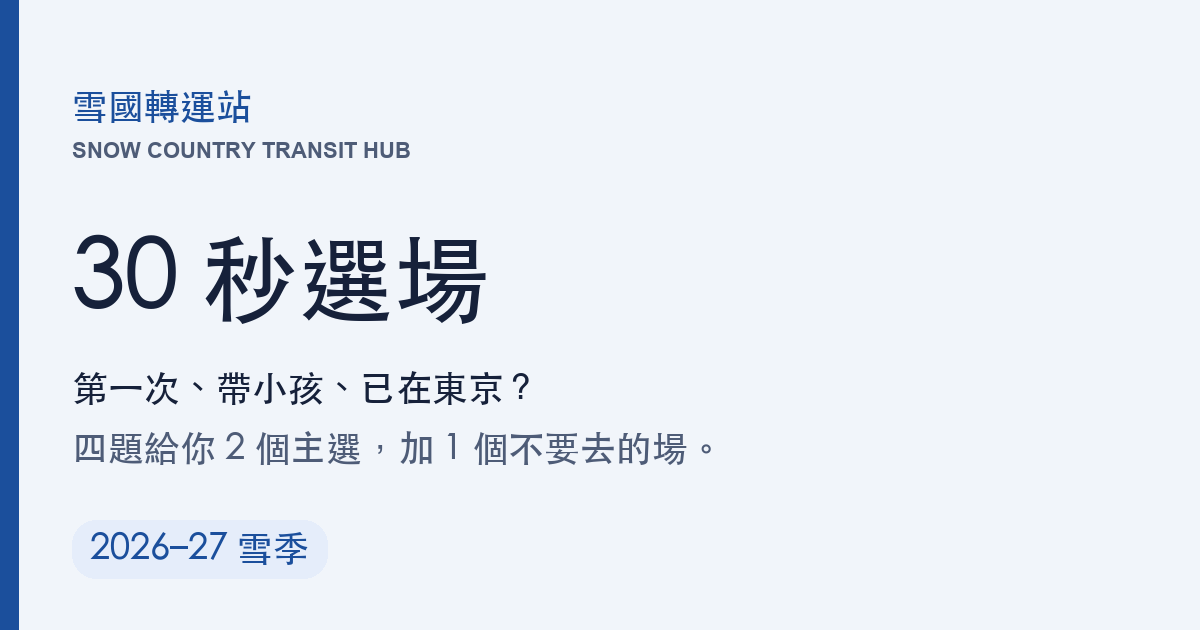
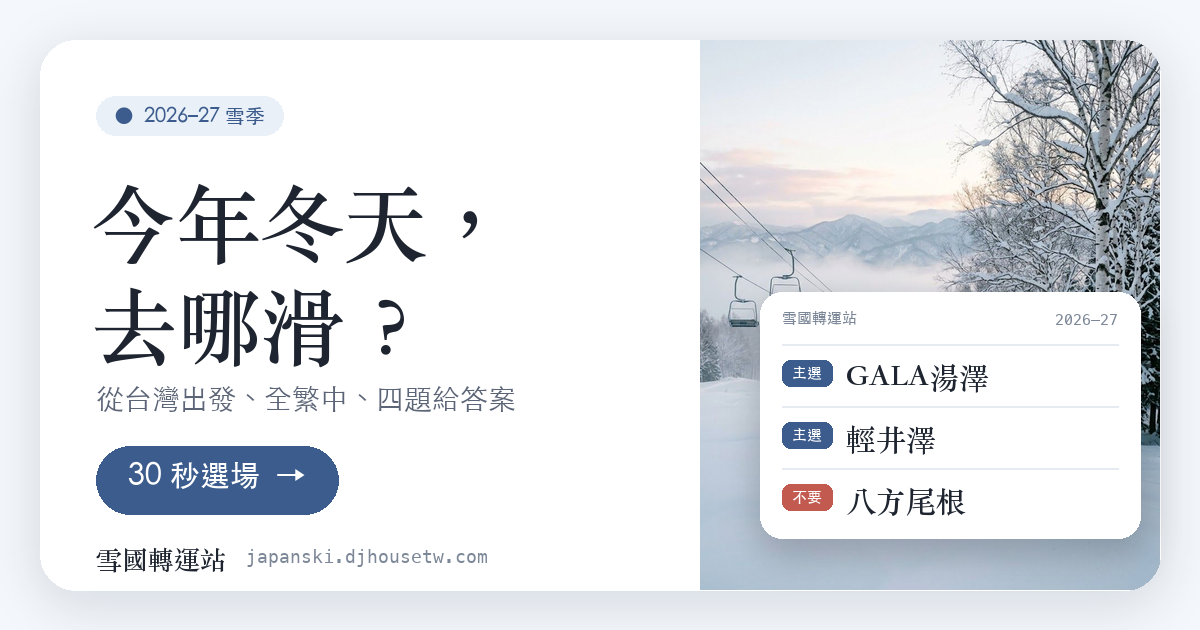
Redraw the share image and fit the mobile nav on one row.
og.png now matches the new look: pale-blue card, hero photo, the sample
result ticket, and a 30 秒選場 button. scripts/make_og.py redraws it with
macOS system fonts (Songti TC, Heiti TC, Menlo). On phones the nav sits
on one row under the brand instead of wrapping to three; checked at 375px
and 320px with no horizontal page scroll.

diff --git a/app.css b/app.css
@@ -416,7 +416,16 @@ img { max-width: 100%; }
   .stage { flex-direction: column; }
   .map-col { order: 2; max-width: none; }
   .panel-col { order: 1; min-width: 0; width: 100%; }
-  .nav { margin-left: 0; width: 100%; }
+  .topbar { padding-top: 12px; padding-bottom: 8px; gap: 6px; }
+  .nav {
+    margin-left: 0; width: 100%;
+    flex-wrap: nowrap; gap: 2px;
+    overflow-x: auto; scrollbar-width: none;
+    margin-inline: -8px; width: calc(100% + 16px); padding-inline: 8px;
+  }
+  .nav::-webkit-scrollbar { display: none; }
+  .nav a { flex: none; font-size: 0.86rem; padding: 8px 11px; min-height: 44px; }
+  .nav a.nav-cta { margin-left: auto; padding: 8px 14px; letter-spacing: 0.04em; }
   .brand-en { display: none; }
   .go-quiz { padding: 24px 20px; border-radius: 22px; }
   .page-title { font-size: 1.7rem; }
@@ -467,3 +476,7 @@ img { max-width: 100%; }
 .vs-table td.win { color: var(--accent); font-weight: 700; }
 .vs-table { min-width: 520px; }
 @media (max-width: 760px) { .vs-grid { grid-template-columns: 1fr; } }
+@media (max-width: 360px) {
+  .nav a { padding: 8px 7px; font-size: 0.84rem; }
+  .nav a.nav-cta { padding: 8px 12px; }
+}

diff --git a/scripts/make_og.py b/scripts/make_og.py
@@ -1,0 +1,122 @@
+# -*- coding: utf-8 -*-
+"""重畫 og.png（1200×630 社群預覽圖）。macOS 系統字體：宋體 TC、黑體 TC、Menlo。
+
+python3 scripts/make_og.py
+"""
+import os
+from PIL import Image, ImageDraw, ImageFilter, ImageFont
+
+ROOT = os.path.dirname(os.path.dirname(os.path.abspath(__file__)))
+W, H = 1200, 630
+
+BG = (244, 247, 251)
+WHITE = (255, 255, 255)
+INK = (30, 37, 48)
+INK_SOFT = (92, 101, 119)
+INK_FAINT = (124, 135, 151)
+LINE = (230, 235, 242)
+ACCENT = (59, 92, 140)
+ACCENT_SOFT = (234, 240, 248)
+RED = (194, 90, 80)
+
+SONG = "/System/Library/Fonts/Supplemental/Songti.ttc"
+HEI_M = "/System/Library/Fonts/STHeiti Medium.ttc"
+HEI_L = "/System/Library/Fonts/STHeiti Light.ttc"
+MONO = "/System/Library/Fonts/Menlo.ttc"
+
+
+def f(path, size, index=0):
+    return ImageFont.truetype(path, size, index=index)
+
+
+song_b = lambda s: f(SONG, s, 2)   # Songti TC Bold
+hei_m = lambda s: f(HEI_M, s, 0)   # Heiti TC Medium
+hei_l = lambda s: f(HEI_L, s, 0)   # Heiti TC Light
+mono = lambda s: f(MONO, s, 0)
+
+
+def rounded(img, r):
+    mask = Image.new("L", img.size, 0)
+    ImageDraw.Draw(mask).rounded_rectangle([0, 0, img.size[0], img.size[1]], r, fill=255)
+    out = Image.new("RGBA", img.size, (0, 0, 0, 0))
+    out.paste(img, (0, 0), mask)
+    return out
+
+
+def cover(img, w, h):
+    s = max(w / img.width, h / img.height)
+    img = img.resize((int(img.width * s + 0.5), int(img.height * s + 0.5)), Image.LANCZOS)
+    x, y = (img.width - w) // 2, (img.height - h) // 2
+    return img.crop((x, y, x + w, y + h))
+
+
+def pill(d, x, y, text, font, fg, bg, padx=16, pady=8, r=999):
+    tw = d.textlength(text, font=font)
+    asc, desc = font.getmetrics()
+    h = asc + desc + pady * 2
+    d.rounded_rectangle([x, y, x + tw + padx * 2, y + h], min(r, h // 2), fill=bg)
+    d.text((x + padx, y + pady), text, font=font, fill=fg)
+    return x + tw + padx * 2, y + h
+
+
+def main():
+    canvas = Image.new("RGBA", (W, H), BG + (255,))
+    d = ImageDraw.Draw(canvas)
+
+    # white card
+    card = [40, 40, W - 40, H - 40]
+    shadow = Image.new("RGBA", (W, H), (0, 0, 0, 0))
+    ImageDraw.Draw(shadow).rounded_rectangle([card[0], card[1] + 12, card[2], card[3] + 12], 36, fill=(59, 92, 140, 40))
+    canvas.alpha_composite(shadow.filter(ImageFilter.GaussianBlur(24)))
+    d.rounded_rectangle(card, 36, fill=WHITE)
+
+    # photo on the right
+    px0, py0, px1, py1 = 700, 40, W - 40, H - 40
+    photo = Image.open(os.path.join(ROOT, "img", "hero.jpg")).convert("RGB")
+    photo = cover(photo, px1 - px0, py1 - py0)
+    mask = Image.new("L", photo.size, 0)
+    md = ImageDraw.Draw(mask)
+    md.rounded_rectangle([-40, 0, photo.size[0], photo.size[1]], 36, fill=255)
+    md.rectangle([0, 0, 40, photo.size[1]], fill=255)
+    canvas.paste(photo, (px0, py0), mask)
+
+    # ticket card over the photo
+    tx, ty, tw, th = 760, 292, 380, 246
+    tshadow = Image.new("RGBA", (W, H), (0, 0, 0, 0))
+    ImageDraw.Draw(tshadow).rounded_rectangle([tx, ty + 14, tx + tw, ty + th + 14], 22, fill=(30, 37, 48, 70))
+    canvas.alpha_composite(tshadow.filter(ImageFilter.GaussianBlur(18)))
+    d.rounded_rectangle([tx, ty, tx + tw, ty + th], 22, fill=WHITE)
+    d.text((tx + 22, ty + 18), "雪國轉運站", font=hei_m(15), fill=INK_FAINT)
+    d.text((tx + tw - 22 - d.textlength("2026–27", font=mono(15)), ty + 19), "2026–27", font=mono(15), fill=INK_FAINT)
+    rows = [("主選", "GALA湯澤", ACCENT), ("主選", "輕井澤", ACCENT), ("不要", "八方尾根", RED)]
+    ry = ty + 52
+    for label, name, color in rows:
+        d.line([tx + 22, ry, tx + tw - 22, ry], fill=LINE, width=2)
+        pill(d, tx + 22, ry + 16, label, hei_m(15), WHITE, color, padx=10, pady=5, r=8)
+        d.text((tx + 86, ry + 11), name, font=song_b(30), fill=INK)
+        ry += 62
+
+    # left copy
+    x = 96
+    pill(d, x, 96, "●  2026–27 雪季", hei_m(20), ACCENT, ACCENT_SOFT, padx=18, pady=9)
+    d.text((x - 4, 160), "今年冬天，", font=song_b(84), fill=INK)
+    d.text((x - 4, 262), "去哪滑？", font=song_b(84), fill=INK)
+    d.text((x, 384), "從台灣出發、全繁中、四題給答案", font=hei_l(28), fill=INK_SOFT)
+
+    # CTA button
+    bx, by = x, 446
+    btxt = "30 秒選場  →"
+    bw = d.textlength(btxt, font=hei_m(30)) + 64
+    d.rounded_rectangle([bx, by, bx + bw, by + 68], 34, fill=ACCENT)
+    d.text((bx + 32, by + 14), btxt, font=hei_m(30), fill=WHITE)
+
+    # brand footer
+    d.text((x, 540), "雪國轉運站", font=song_b(26), fill=INK)
+    d.text((x + 150, 546), "japanski.djhousetw.com", font=mono(18), fill=INK_FAINT)
+
+    canvas.convert("RGB").save(os.path.join(ROOT, "og.png"), optimize=True)
+    print("og.png", W, H)
+
+
+if __name__ == "__main__":
+    main()
